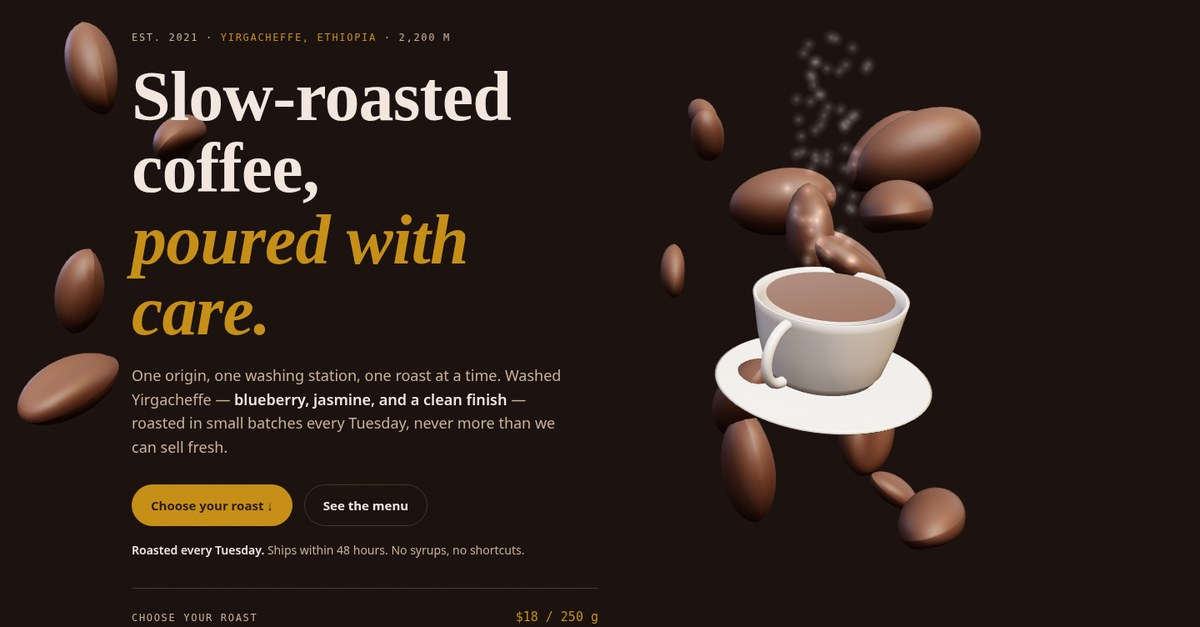
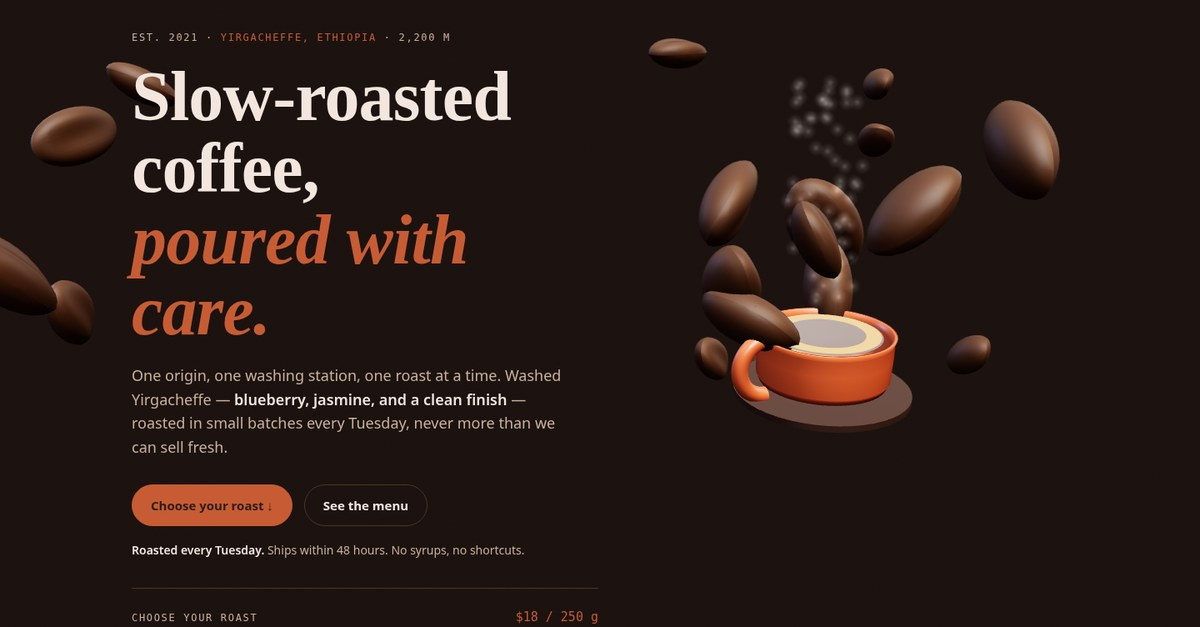
Aurora Coffee v5 — coffee mug (not teacup), burnt copper colour, smoother + stronger 3D motion

diff --git a/index.html b/index.html
@@ -17,7 +17,7 @@
       :root {
         --ground: #1B120F;   /* 60% — near-black roast */
         --cream: #F2E6DF;    /* 30% — warm cream */
-        --caramel: #C68E17;  /* 10% — salted caramel, FLAT solid only */
+        --caramel: #C75B33;  /* 10% — burnt copper/rust, FLAT solid only */
         --brown: #4A3525;    /* hairlines, secondary surfaces */
         --ink: #2B1B17;      /* espresso "black" (never pure #000) */
         --paper: #FDFBF7;    /* espresso "white" (never pure #FFF) */
@@ -175,8 +175,23 @@
       footer .wrap { display: flex; justify-content: space-between; gap: 20px; flex-wrap: wrap; }
       footer a { color: var(--cream); }
 
-      .reveal { opacity: 0; transform: translateY(22px); transition: opacity 0.8s ease, transform 0.8s ease; }
+      .reveal { opacity: 0; transform: translateY(36px); transition: opacity 1s cubic-bezier(0.22, 1, 0.36, 1), transform 1s cubic-bezier(0.22, 1, 0.36, 1); }
       .reveal.visible { opacity: 1; transform: translateY(0); }
+      /* Hero entrance — staggered glide-in on load. */
+      @keyframes rise { from { opacity: 0; transform: translateY(28px); } to { opacity: 1; transform: translateY(0); } }
+      .hero-eyebrow { animation: rise 0.9s cubic-bezier(0.22, 1, 0.36, 1) 0.05s both; }
+      .hero h1 { animation: rise 0.9s cubic-bezier(0.22, 1, 0.36, 1) 0.15s both; }
+      .hero .lede { animation: rise 0.9s cubic-bezier(0.22, 1, 0.36, 1) 0.28s both; }
+      .hero-ctas { animation: rise 0.9s cubic-bezier(0.22, 1, 0.36, 1) 0.4s both; }
+      .hero-note { animation: rise 0.9s cubic-bezier(0.22, 1, 0.36, 1) 0.52s both; }
+      .roast { animation: rise 0.9s cubic-bezier(0.22, 1, 0.36, 1) 0.64s both; }
+      /* Roast card swap — quick glide when the roast changes. */
+      @keyframes swap { from { opacity: 0; transform: translateY(8px); } to { opacity: 1; transform: translateY(0); } }
+      .swap { animation: swap 0.45s cubic-bezier(0.22, 1, 0.36, 1) both; }
+      /* Photos — slow zoom on hover. */
+      .photo-frame { overflow: hidden; }
+      .photo-frame img { transition: transform 1.4s cubic-bezier(0.22, 1, 0.36, 1); }
+      .photo-frame:hover img { transform: scale(1.05); }
 
       @media (max-width: 900px) {
         .hero-grid, .craft-grid, .menu-grid, .origin-grid, .visit-grid { grid-template-columns: 1fr; gap: 36px; }
@@ -238,7 +253,7 @@
               <p class="roast-desc" id="roast-desc"><b>Medium — Balanced.</b> Blueberry and jasmine, with a honeyed sweetness. The one we drink ourselves, every morning.</p>
             </div>
 
-            <p class="hero-cup-hint"><span class="dot"></span> That cup on the right is real 3D — drag it to spin it.</p>
+            <p class="hero-cup-hint"><span class="dot"></span> That mug on the right is real 3D — drag it to spin it.</p>
           </div>
           <div aria-hidden="true"></div>
         </div>
@@ -508,31 +523,42 @@ div>
         rim.position.set(-5, 2, -3);
         scene.add(rim);
 
-        /* ---- The cup (lathe) + saucer + coffee + handle ---- */
+        /* ---- The mug (lathe) + walnut coaster + coffee + crema + chunky handle ---- */
         var cupGroup = new THREE.Group();
-        var ceramic = new THREE.MeshPhysicalMaterial({ color: 0xF2E6DF, roughness: 0.28, metalness: 0, clearcoat: 0.55, clearcoatRoughness: 0.3 });
+        var ceramic = new THREE.MeshPhysicalMaterial({ color: 0xC75B33, roughness: 0.32, metalness: 0, clearcoat: 0.45, clearcoatRoughness: 0.35 });
+        /* Short, wide, straight-sided coffee mug — not a tall flared teacup. */
         var cupPts = [
-          [0.0, 0.0], [0.45, 0.0], [0.55, 0.05], [0.62, 0.15], [0.72, 0.5], [0.78, 0.85],
-          [0.80, 0.95], [0.76, 0.95], [0.72, 0.85], [0.68, 0.55], [0.60, 0.25], [0.45, 0.18], [0.0, 0.18]
+          [0.0, 0.0], [0.55, 0.0], [0.68, 0.03], [0.71, 0.10], [0.72, 0.35], [0.72, 0.52],
+          [0.74, 0.58], [0.70, 0.58], [0.68, 0.50], [0.66, 0.25], [0.60, 0.10], [0.45, 0.06], [0.0, 0.06]
         ].map(function (p) { return new THREE.Vector2(p[0], p[1]); });
         cupGroup.add(new THREE.Mesh(new THREE.LatheGeometry(cupPts, 64), ceramic));
 
-        var saucerPts = [
-          [0.0, 0.0], [0.5, 0.0], [0.9, 0.02], [1.1, 0.08], [1.15, 0.12], [1.1, 0.14], [0.9, 0.10], [0.5, 0.06], [0.0, 0.06]
-        ].map(function (p) { return new THREE.Vector2(p[0], p[1]); });
-        var saucer = new THREE.Mesh(new THREE.LatheGeometry(saucerPts, 64), ceramic);
-        saucer.position.y = -0.16;
-        cupGroup.add(saucer);
+        /* Dark walnut coaster instead of a saucer. */
+        var coaster = new THREE.Mesh(
+          new THREE.CylinderGeometry(0.95, 0.95, 0.07, 48),
+          new THREE.MeshStandardMaterial({ color: 0x3B2620, roughness: 0.7 })
+        );
+        coaster.position.y = -0.10;
+        cupGroup.add(coaster);
 
-        var coffeeMat = new THREE.MeshStandardMaterial({ color: 0x5A3B2E, roughness: 0.35 });
-        var coffee = new THREE.Mesh(new THREE.CircleGeometry(0.66, 48), coffeeMat);
+        var coffeeMat = new THREE.MeshStandardMaterial({ color: 0x4A2E1E, roughness: 0.3 });
+        var coffee = new THREE.Mesh(new THREE.CircleGeometry(0.60, 48), coffeeMat);
         coffee.rotation.x = -Math.PI / 2;
-        coffee.position.y = 0.94;
+        coffee.position.y = 0.55;
         cupGroup.add(coffee);
 
-        var handle = new THREE.Mesh(new THREE.TorusGeometry(0.32, 0.055, 12, 32, Math.PI), ceramic);
+        /* Pale crema ring on the dark coffee — the coffee look. */
+        var crema = new THREE.Mesh(
+          new THREE.RingGeometry(0.42, 0.58, 48),
+          new THREE.MeshStandardMaterial({ color: 0xD9A05B, roughness: 0.5 })
+        );
+        crema.rotation.x = -Math.PI / 2;
+        crema.position.y = 0.56;
+        cupGroup.add(crema);
+
+        var handle = new THREE.Mesh(new THREE.TorusGeometry(0.32, 0.09, 14, 32, Math.PI), ceramic);
         handle.rotation.z = -Math.PI / 2;
-        handle.position.set(0.78, 0.55, 0);
+        handle.position.set(0.70, 0.28, 0);
         cupGroup.add(handle);
 
         cupGroup.position.set(2.4, -0.55, -1);
@@ -555,7 +581,7 @@ div>
           return g;
         }
         var beanGeo = makeBeanGeometry();
-        var beanMat = new THREE.MeshStandardMaterial({ color: 0x5A3B2E, roughness: 0.55 });
+        var beanMat = new THREE.MeshStandardMaterial({ color: 0x4A2E1E, roughness: 0.55 });
         var beans = [];
         for (var b = 0; b < 20; b++) {
           var m = new THREE.Mesh(beanGeo, beanMat);
@@ -588,7 +614,7 @@ div>
         var steamData = [];
         for (var s = 0; s < steamCount; s++) {
           var sx = 2.4 + (Math.random() - 0.5) * 0.7;
-          var sy = 0.6 + Math.random() * 2.4;
+          var sy = 0.1 + Math.random() * 2.4;
           var sz = -1 + (Math.random() - 0.5) * 0.5;
           steamPos[s * 3] = sx; steamPos[s * 3 + 1] = sy; steamPos[s * 3 + 2] = sz;
           steamData.push({ x: sx, y: sy, z: sz, speed: 0.25 + Math.random() * 0.35, phase: Math.random() * Math.PI * 2 });
@@ -600,8 +626,8 @@ div>
 
         /* ---- Roast selector — smooth colour morph (lerped, not snapped) ---- */
         var ROASTS = {
-          light:    { coffee: 0x8B5A2B, bean: 0x8B5A2B, steam: 0.22, price: "$17 / 250 g", note: "<b>Light — Fruity.</b> Blueberry and jasmine, tea-like and bright. Best as a pour-over." },
-          medium:   { coffee: 0x5A3B2E, bean: 0x5A3B2E, steam: 0.32, price: "$18 / 250 g", note: "<b>Medium — Balanced.</b> Blueberry and jasmine, with a honeyed sweetness. The one we drink ourselves, every morning." },
+          light:    { coffee: 0x7A4A22, bean: 0x7A4A22, steam: 0.22, price: "$17 / 250 g", note: "<b>Light — Fruity.</b> Blueberry and jasmine, tea-like and bright. Best as a pour-over." },
+          medium:   { coffee: 0x4A2E1E, bean: 0x4A2E1E, steam: 0.32, price: "$18 / 250 g", note: "<b>Medium — Balanced.</b> Blueberry and jasmine, with a honeyed sweetness. The one we drink ourselves, every morning." },
           dark:     { coffee: 0x2B1B17, bean: 0x2B1B17, steam: 0.40, price: "$18 / 250 g", note: "<b>Dark — Chocolatey.</b> Dark chocolate and molasses, heavy body. Built for milk." },
           espresso: { coffee: 0x1B120F, bean: 0x1B120F, steam: 0.45, price: "$16 / 250 g", note: "<b>Espresso — Intense.</b> Our house blend, roasted dark for a thick crema and a long finish." }
         };
@@ -617,8 +643,8 @@ div>
             targetCoffee.set(r.coffee);
             targetBean.set(r.bean);
             targetSteam = r.steam;
-            if (priceEl) priceEl.textContent = r.price;
-            if (descEl) descEl.innerHTML = r.note;
+            if (priceEl) { priceEl.textContent = r.price; priceEl.classList.remove("swap"); void priceEl.offsetWidth; priceEl.classList.add("swap"); }
+            if (descEl) { descEl.innerHTML = r.note; descEl.classList.remove("swap"); void descEl.offsetWidth; descEl.classList.add("swap"); }
             document.querySelectorAll(".roast-btn").forEach(function (x) { x.classList.toggle("on", x === btn); });
           });
         });
@@ -678,32 +704,34 @@ div>
 
           if (!dragging && Math.abs(spinVel) > 0.0005) { cupSpin += spinVel; spinVel *= 0.94; }
           cupGroup.rotation.y = cupSpin + t * 0.25;
-          /* Positive X tilt tips the cup's opening toward the camera so the dark coffee shows. */
-          cupGroup.rotation.x = 0.35 + pointer.y * 0.06;
+          /* Positive X tilt tips the mug's opening toward the camera so the dark coffee shows;
+             the mug leans smoothly toward the cursor — no snapping. */
+          cupGroup.rotation.x = 0.28 + pointer.y * 0.14;
+          cupGroup.rotation.z = pointer.x * 0.08;
           cupGroup.position.y = -0.55 + Math.sin(t * 0.8) * 0.06;
 
           beans.forEach(function (b) {
             b.mesh.rotation.y += b.rot * dt;
             b.mesh.rotation.x += b.rot * 0.6 * dt;
             b.mesh.position.y = b.baseY + Math.sin(t * 0.5 + b.phase) * 0.25;
-            b.mesh.position.x = b.baseX + pointer.x * 0.35;
+            b.mesh.position.x = b.baseX + pointer.x * 0.7;
           });
 
           var arr = steamGeo.attributes.position.array;
           steamData.forEach(function (p, i) {
             p.y += p.speed * dt;
-            if (p.y > 3.4) { p.y = 0.6; p.x = 2.4 + (Math.random() - 0.5) * 0.7; }
-            var curl = Math.sin(t * 1.2 + p.phase) * 0.18 * ((p.y - 0.6) / 2.8);
+            if (p.y > 3.0) { p.y = 0.1; p.x = 2.4 + (Math.random() - 0.5) * 0.7; }
+            var curl = Math.sin(t * 1.2 + p.phase) * 0.18 * ((p.y - 0.1) / 2.9);
             arr[i * 3] = p.x + curl;
             arr[i * 3 + 1] = p.y;
             arr[i * 3 + 2] = p.z;
           });
           steamGeo.attributes.position.needsUpdate = true;
 
-          camera.position.z = 9.5 - scrollT * 1.2;
-          camera.position.y = 0.9 + scrollT * 1.0 + pointer.y * -0.15;
-          camera.position.x = pointer.x * 0.25;
-          camera.lookAt(0, 0.2 + scrollT * 0.3, 0);
+          camera.position.z = 9.5 - scrollT * 2.2;
+          camera.position.y = 0.9 + scrollT * 1.8 + pointer.y * -0.35;
+          camera.position.x = pointer.x * 0.6;
+          camera.lookAt(0, 0.2 + scrollT * 0.8, 0);
 
           renderer.render(scene, camera);
         }
@@ -735,7 +763,7 @@ div>
         var lenis = null;
         if (window.Lenis) {
           try {
-            lenis = new Lenis({ lerp: 0.1, smoothWheel: true });
+            lenis = new Lenis({ lerp: 0.08, smoothWheel: true });
             var raf = function (time) { lenis.raf(time); requestAnimationFrame(raf); };
             requestAnimationFrame(raf);
           } catch (e) { lenis = null; }
